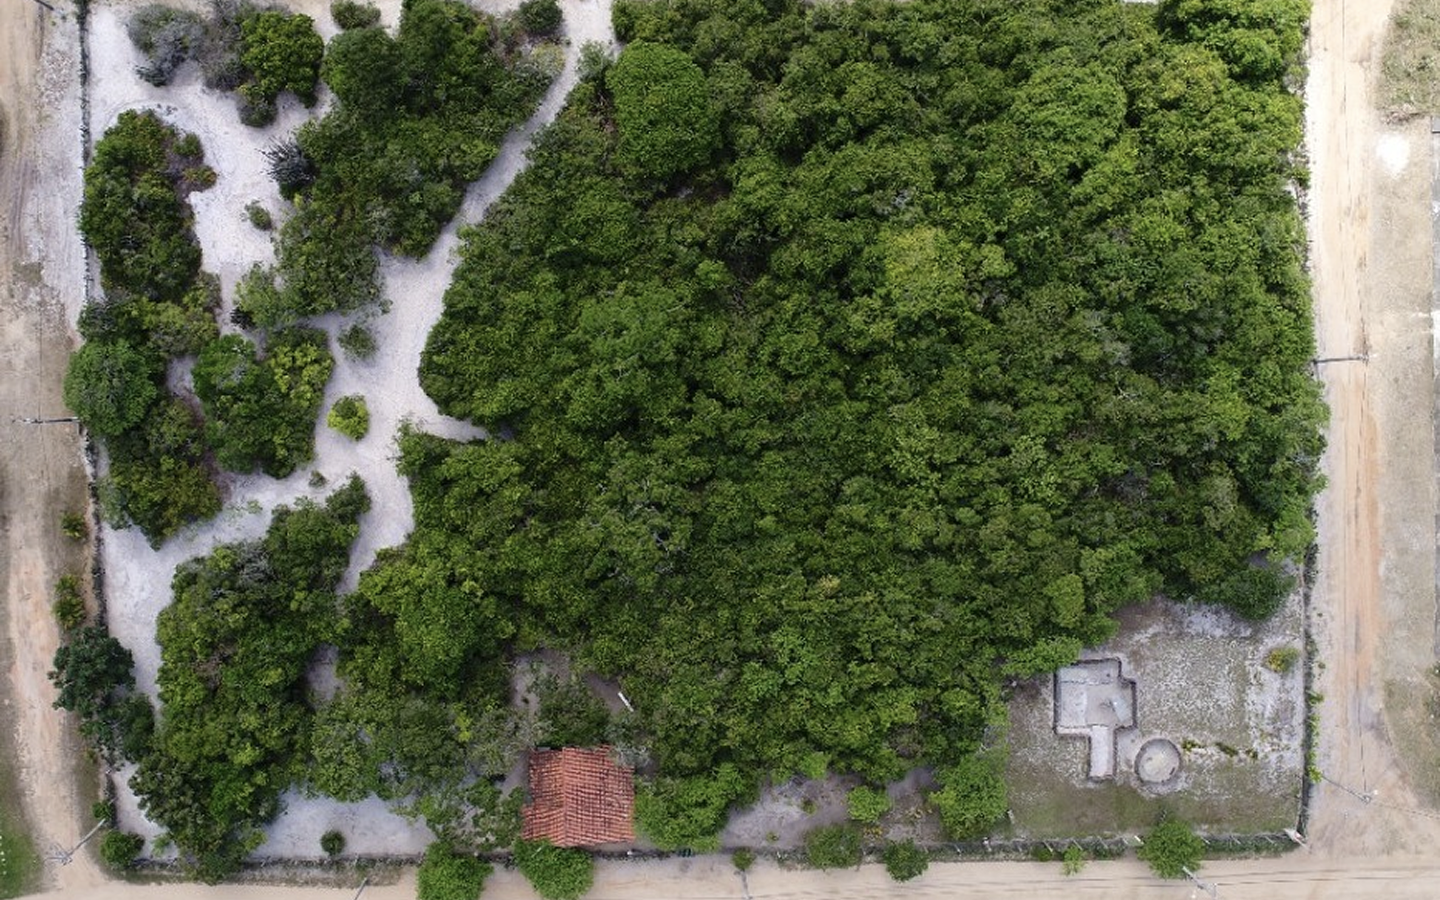
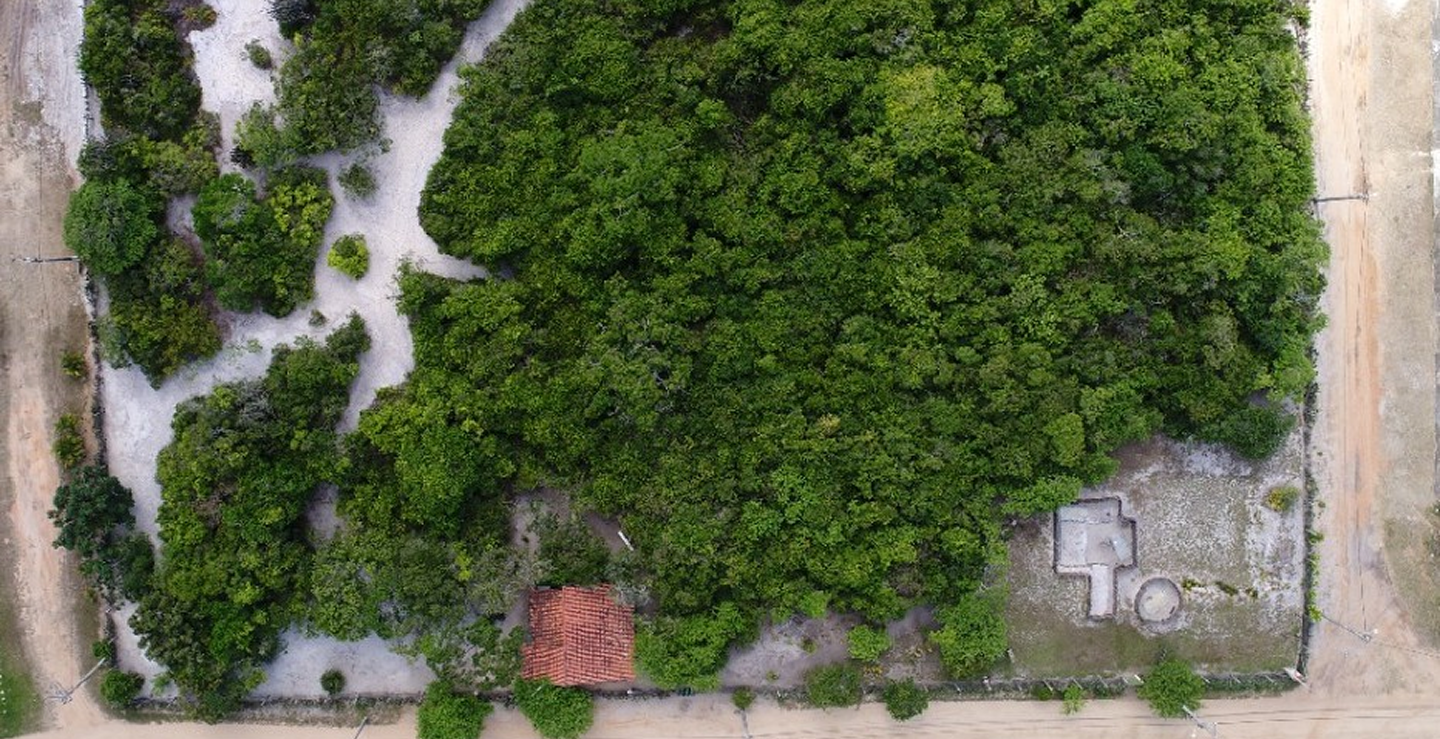
fix(ui): 1. Acrescentadas as novas imagens / 2. Rrevisados os nomes das cartas / 3. Cortado o topo da imagem de fundo para evidenciar a parte de baixo da imagem / 4. Fundo clareado para evidenciar as cartas que são de tonalidade verde e se mesclava com o fundo / 5. Verso recriado com objetos que rea

diff --git a/src/routes/+page.svelte b/src/routes/+page.svelte
@@ -5,7 +5,7 @@
 	import WinScreen from '$lib/components/winScreen.svelte';
 	const { data }: PageProps = $props();
 	const { options } = data;
-	const CARDS_SIZE = 8;
+	const CARDS_SIZE = 12;
 
 	type Card = {
 		name: string;
@@ -87,11 +87,11 @@
 	let locked = false;
 </script>
 
-<div class="relative content flex min-h-screen flex-col bg-[#bd722e] text-white">
+<div class="relative content flex min-h-screen flex-col bg-[#fff] text-white">
 	<img src="/foto_aerea_sambaqui.png" alt="Foto aerea do sambaqui usada como fundo para o jogo."
-	class="absolute z-[–1] w-[100%]">
+	class="absolute z-[–1] w-[100%] opacity-70">
 	<section
-		class="z-1 m-3 flex flex-wrap items-center justify-between rounded-2xl bg-[#3b571c] p-5 shadow"
+		class="z-1 m-3 flex flex-wrap items-center justify-between rounded-2xl bg-[#3b571c] p-5 shadow-lg shadow-black"
 	>
 		<img src="/logo_typo_sambaqui.svg" alt="Logo do jogo da memoria do sambaqui" class="h-18">
 
@@ -101,7 +101,7 @@
 		</div>
 	</section>
 
-	<div class="card-container m-3 mt-auto mb-auto">
+	<div class="card-container m-3 mt-3 mb-auto">
 		{#each cards as { icon, name, flipped, matchFound }, idx}
 			{@const card = cards[idx]}
 			<Card
@@ -121,8 +121,8 @@
 <style>
 	.card-container {
 		display: grid;
-		gap: 1rem;
+		gap: .5rem;
 
-		grid-template-columns: repeat(auto-fit, minmax(8rem, 1fr));
+		grid-template-columns: repeat(auto-fit, minmax(6rem, 1fr));
 	}
 </style>

diff --git a/src/lib/components/card.svelte b/src/lib/components/card.svelte
@@ -14,7 +14,7 @@
 </script>
 
 <button onclick={mouseClick} class="perspective">
-	<div class="card-container {flipped ? 'flipped' : ''}">
+	<div class="card-container shadow-md shadow-black {flipped ? 'flipped' : ''}">
 		<div class="card-side front">
 		<img src={iconSrc} alt={name} class="h-full object-cover"/>
 		</div>
